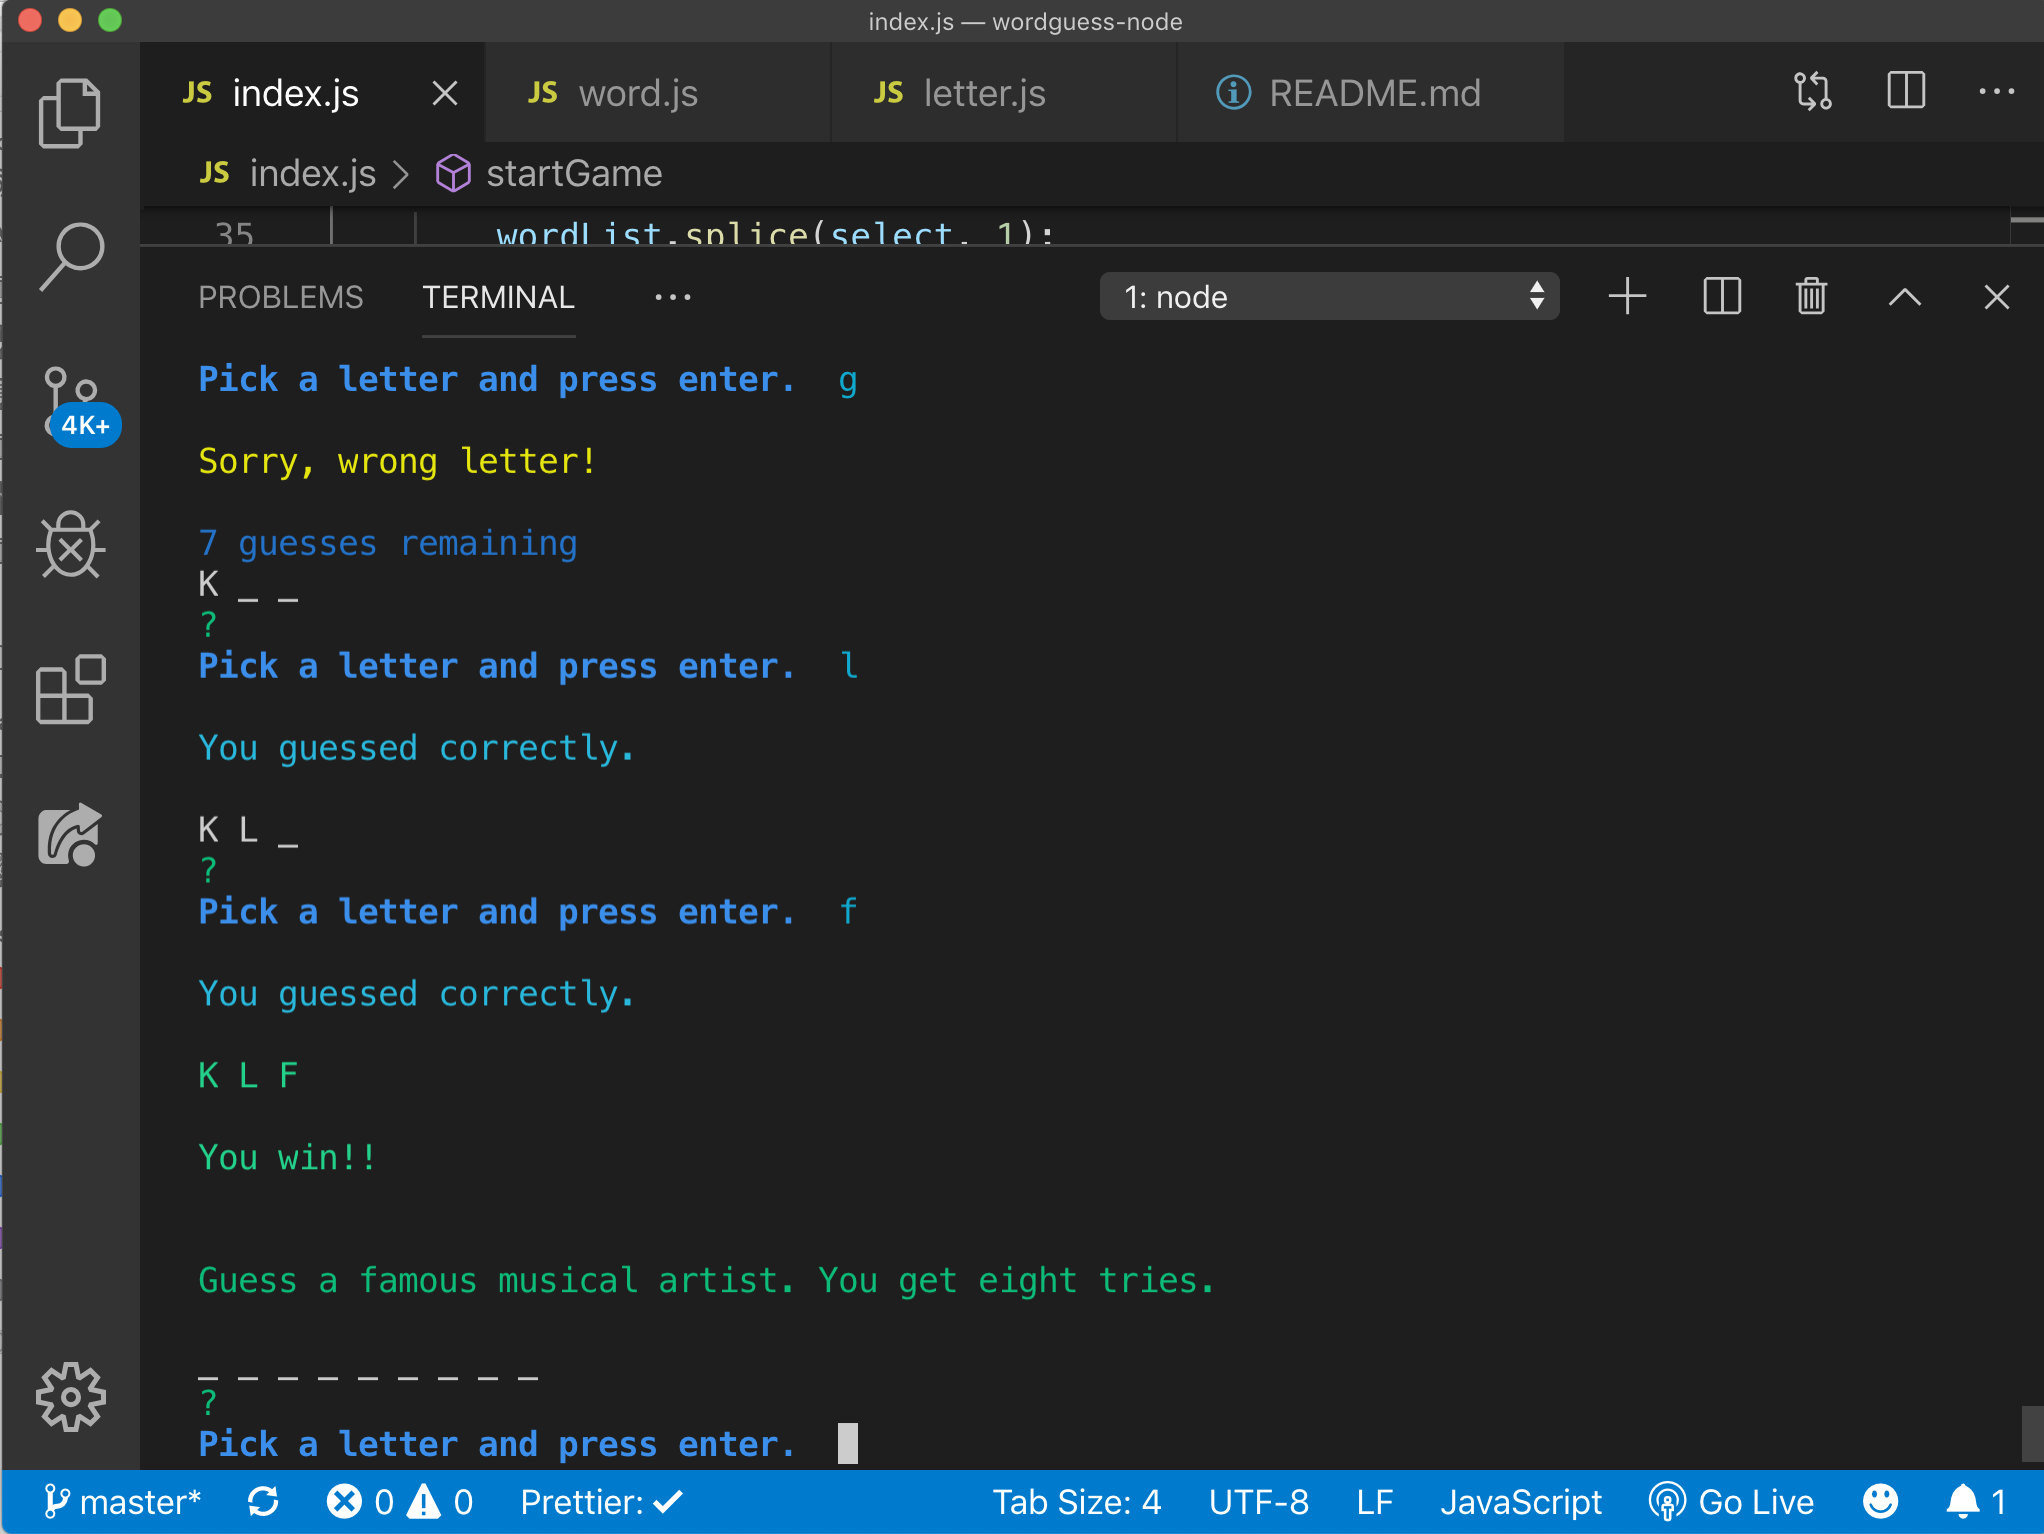
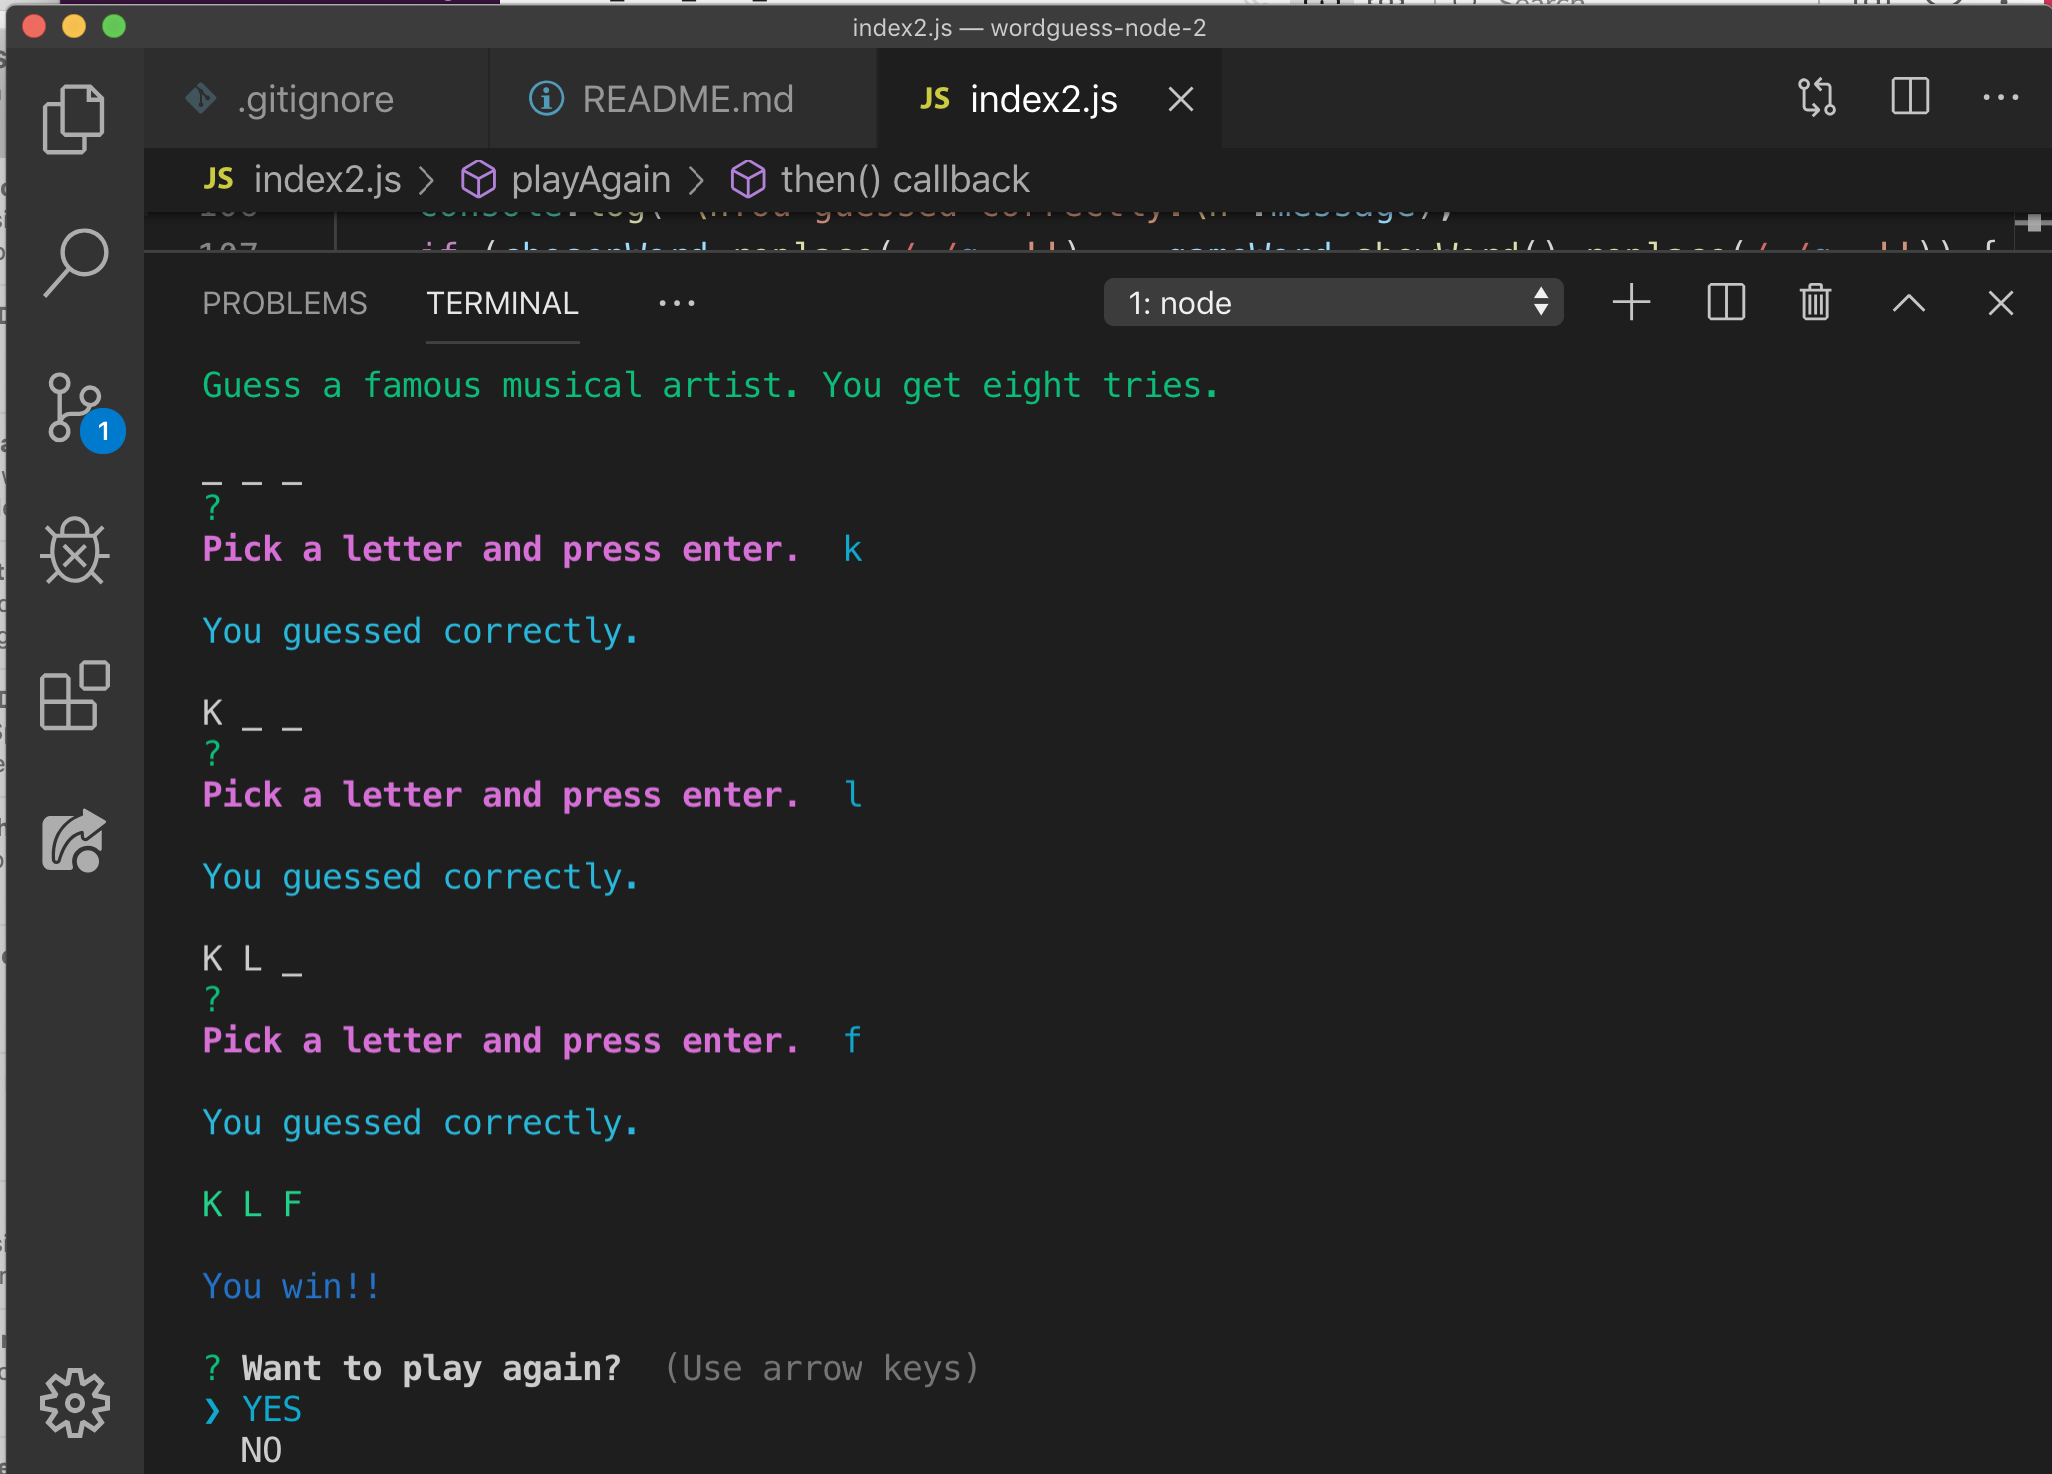
added win branch screensnot

diff --git a/index2.js b/index2.js
@@ -1,0 +1,120 @@
+var Word = require('./word');
+var inquirer = require('inquirer');
+var colors = require('colors');
+
+// Set colour scheme for Inquirer prompts and alerts
+colors.setTheme({
+	message: 'brightCyan',
+	pick: 'brightMagenta',
+	verbiage: 'green',
+	instructions: 'cyan',
+	warn: 'yellow',
+	guessesLeft: 'blue',
+	lose: 'red',
+	youWin: 'blue',
+	winWord: 'brightGreen'
+});
+
+// creat random word Array
+wordList = [ 'KLF', 'KLF', 'BEETHOVEN' ];
+var select = 0;
+var chosenWord = '';
+var gameWord = '';
+var counter = 0;
+
+function playAgain() {
+	inquirer
+		.prompt([
+			{
+				name: 'playAgain',
+				type: 'list',
+				message: 'Want to play again? ',
+				choices: [ 'YES', 'NO' ]
+			}
+		])
+		.then(function(answers) {
+			if (answers.playAgain === 'YES') {
+				``;
+				startGame();
+			}
+		});
+}
+
+//derive a word from the array, and use the word constructor for the program logic
+function startGame() {
+	if (wordList.length < 2) {
+		wordList = [ 'KLF', 'KLF', 'BEETHOVEN' ];
+	}
+	select = Math.floor(Math.random() * wordList.length);
+	chosenWord = wordList[select];
+	gameWord = new Word(chosenWord);
+	gameWord.makeWord();
+	if (select > -1) {
+		wordList.splice(select, 1);
+	}
+	console.log('\nGuess a famous musical artist. You get eight tries.\n'.verbiage);
+	promptUser();
+}
+
+//handle user input and restarts the game if player loses
+function promptUser() {
+	if (counter < 8) {
+		console.log(gameWord.showWord());
+		inquirer
+			.prompt([
+				{
+					type: 'input',
+					name: 'letter',
+					message: '\nPick a letter and press enter. '.pick
+				}
+			])
+			.then(function(data) {
+				checkAnswer(data);
+			});
+	} else {
+		console.log("\nSorry, you're out of guesses.\n".lose);
+		console.log(chosenWord.random);
+		chosenWord = '';
+		gameWord = '';
+		select = 0;
+		counter = 0;
+		startGame();
+	}
+}
+// convert guessed letters to uppercase and checks guessed letters against the word from the array
+function checkAnswer(data) {
+	if (data.letter.length === 1 && /^[a-zA-Z]+$/.test(data.letter)) {
+		var checkable = data.letter.toUpperCase();
+		var temp = gameWord.showWord();
+		gameWord.checkGuess(checkable);
+		if (temp === gameWord.showWord()) {
+			console.log('\nSorry, wrong letter!\n'.warn);
+			counter++;
+			console.log((8 - counter + ' guesses remaining').guessesLeft);
+			promptUser();
+		} else {
+			rightGuess();
+		}
+	} else {
+		console.log('\nPlease enter a letter, one at a time.\n'.instructions);
+		promptUser();
+	}
+}
+
+// handle correctly guessed letters and restart game
+function rightGuess() {
+	console.log('\nYou guessed correctly.\n'.message);
+	if (chosenWord.replace(/ /g, '') == gameWord.showWord().replace(/ /g, '')) {
+		console.log(gameWord.showWord().winWord);
+		console.log('\nYou win!!\n'.youWin);
+		chosenWord = '';
+		gameWord = '';
+		select = 0;
+		counter = 0;
+		playAgain();
+	} else {
+		promptUser();
+	}
+}
+
+startGame();
